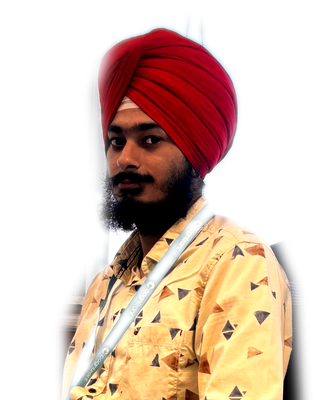
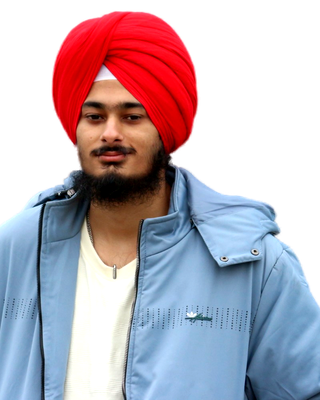
Hero: new red-turban photo with AI background removal, auto-exposure glyphs; remove footer name; fix button styles

diff --git a/src/v2/AsciiPortrait.tsx b/src/v2/AsciiPortrait.tsx
@@ -96,6 +96,16 @@ export function AsciiPortrait({
       octx.drawImage(img, 0, 0, cols, rows);
       const data = octx.getImageData(0, 0, cols, rows).data;
 
+      // measure the photo's own brightness so any portrait lands at a similar exposure
+      let sumL = 0,
+        nL = 0;
+      for (let i = 0; i < data.length; i += 4) {
+        if (data[i + 3]! < 128) continue;
+        sumL += (0.299 * data[i]! + 0.587 * data[i + 1]! + 0.114 * data[i + 2]!) / 255;
+        nL++;
+      }
+      const meanL = nL ? sumL / nL : 0.5;
+      const gain = Math.max(0.75, Math.min(1.9, 0.6 / Math.max(0.05, meanL)));
       const buckets = new Map<string, number>();
       palette = [];
       cells = [];
@@ -110,10 +120,17 @@ export function AsciiPortrait({
           const lum = (0.299 * r + 0.587 * g + 0.114 * b) / 255;
           // brighten so skin, beard and turban read on black; fade only at the soft edges
           const k = Math.sqrt(a);
-          const lift = 1.4 + (1 - lum) * 1.1;
-          r = Math.min(255, (r * lift + 40) * k);
-          g = Math.min(255, (g * lift + 34) * k);
-          b = Math.min(255, (b * lift + 30) * k);
+          // boost saturation so the turban and jacket keep their colour as glyphs
+          const grey = lum * 255;
+          const sat = 1.35;
+          r = grey + (r - grey) * sat;
+          g = grey + (g - grey) * sat;
+          b = grey + (b - grey) * sat;
+          // exposure from the measured gain, with a little extra lift in the shadows
+          const lift = gain * (1 + (1 - lum) * 0.7);
+          r = Math.max(0, Math.min(255, (r * lift + 14) * k));
+          g = Math.max(0, Math.min(255, (g * lift + 12) * k));
+          b = Math.max(0, Math.min(255, (b * lift + 10) * k));
           const q = (v: number) => Math.round(v / 32) * 32;
           const key = `${q(r)},${q(g)},${q(b)}`;
           let bucket = buckets.get(key);

diff --git a/src/v2/v2.css b/src/v2/v2.css
@@ -40,11 +40,12 @@ html.v2-locked body {
 .v2 *::after {
   box-sizing: border-box;
 }
-.v2 a {
+/* zero-specificity resets, so component classes (buttons, pills) always win */
+:where(.v2) a {
   color: inherit;
   text-decoration: none;
 }
-.v2 button {
+:where(.v2) button {
   font: inherit;
   color: inherit;
   background: none;
@@ -890,16 +891,6 @@ html.v2-has-cursor .v2 * {
 }
 .v2-foot-links a:hover {
   color: var(--orange);
-}
-.v2-giant {
-  font-size: 27.5vw;
-  line-height: 0.74;
-  letter-spacing: -0.05em;
-  color: transparent;
-  -webkit-text-stroke: 1px rgba(239, 233, 223, 0.14);
-  margin: 2vh 0 -2.5vw calc(var(--gutter) * -0.4);
-  white-space: nowrap;
-  user-select: none;
 }
 
 /* ---------------------------------------------------------- responsive */

diff --git a/src/v2/V2.tsx b/src/v2/V2.tsx
@@ -758,9 +758,6 @@ function Contact() {
         <span>Jamshedpur · IST {clock}</span>
         <span>© 2026 Harmeet Singh</span>
       </footer>
-      <div className="v2-giant serif" aria-hidden>
-        Harmeet
-      </div>
     </section>
   );
 }
